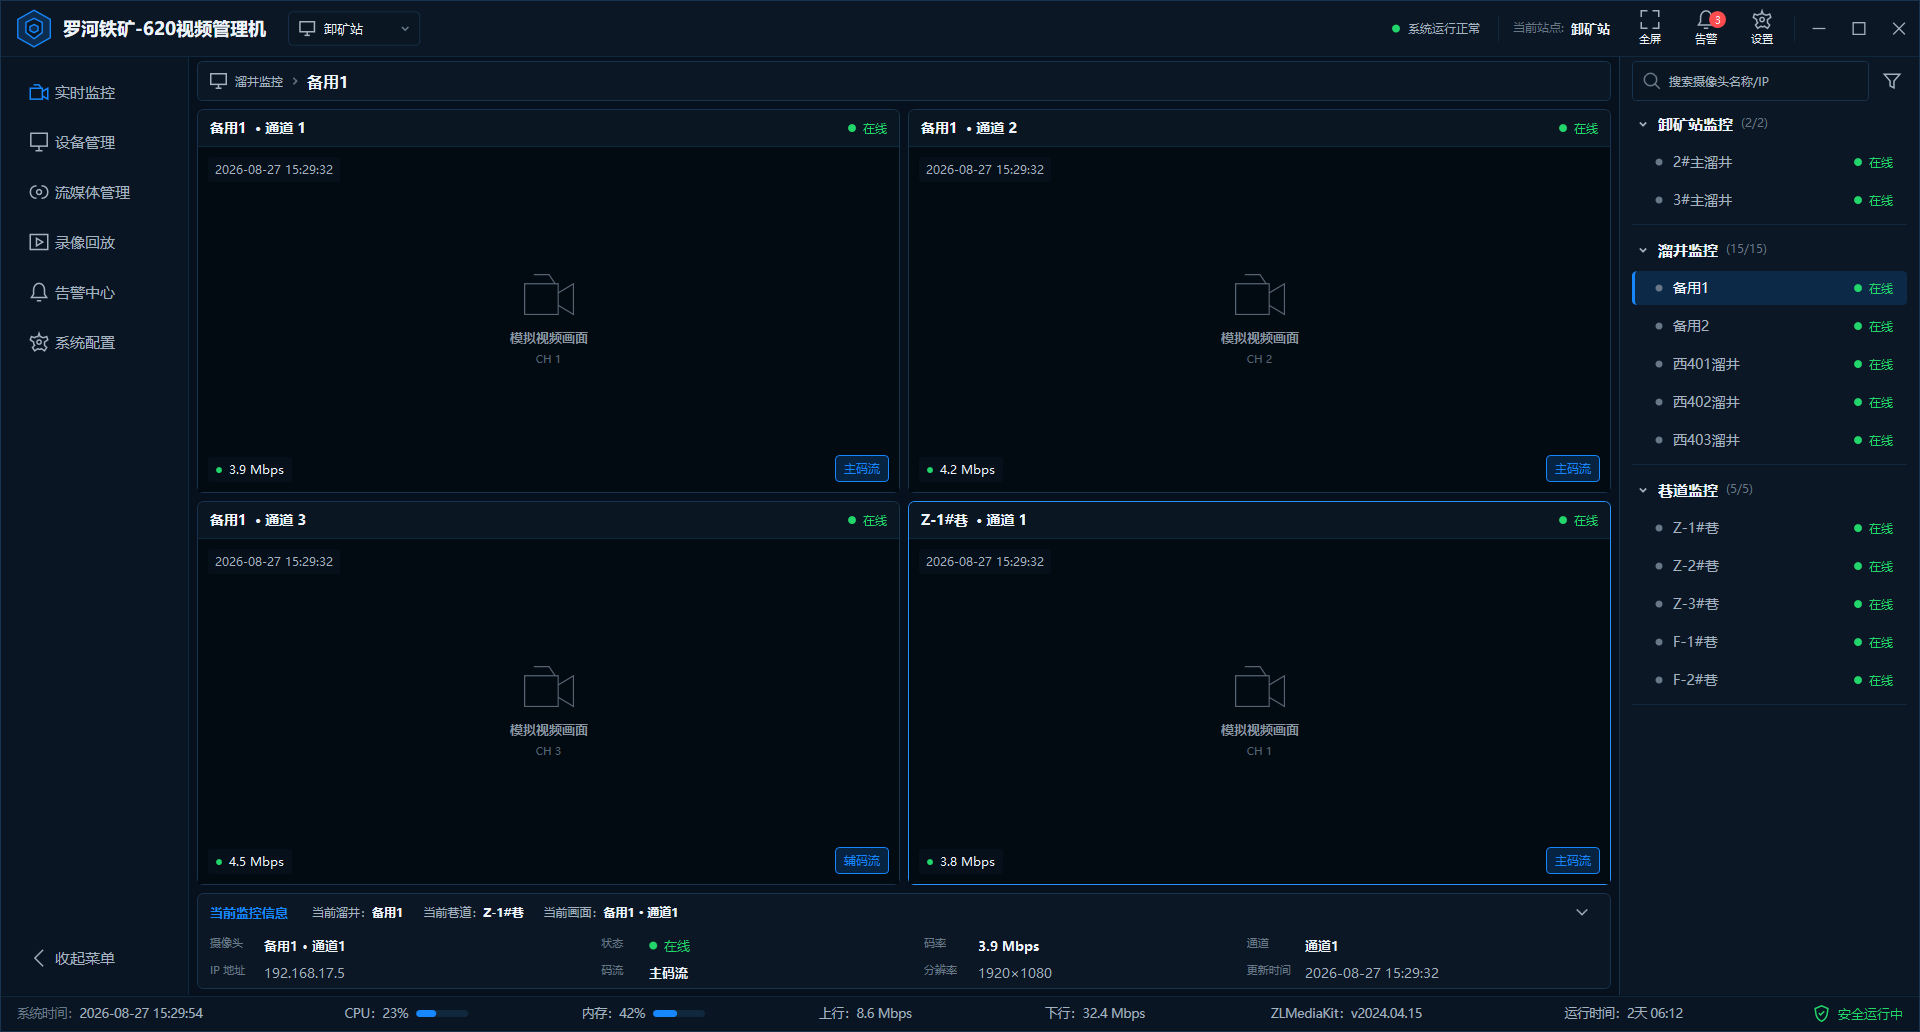
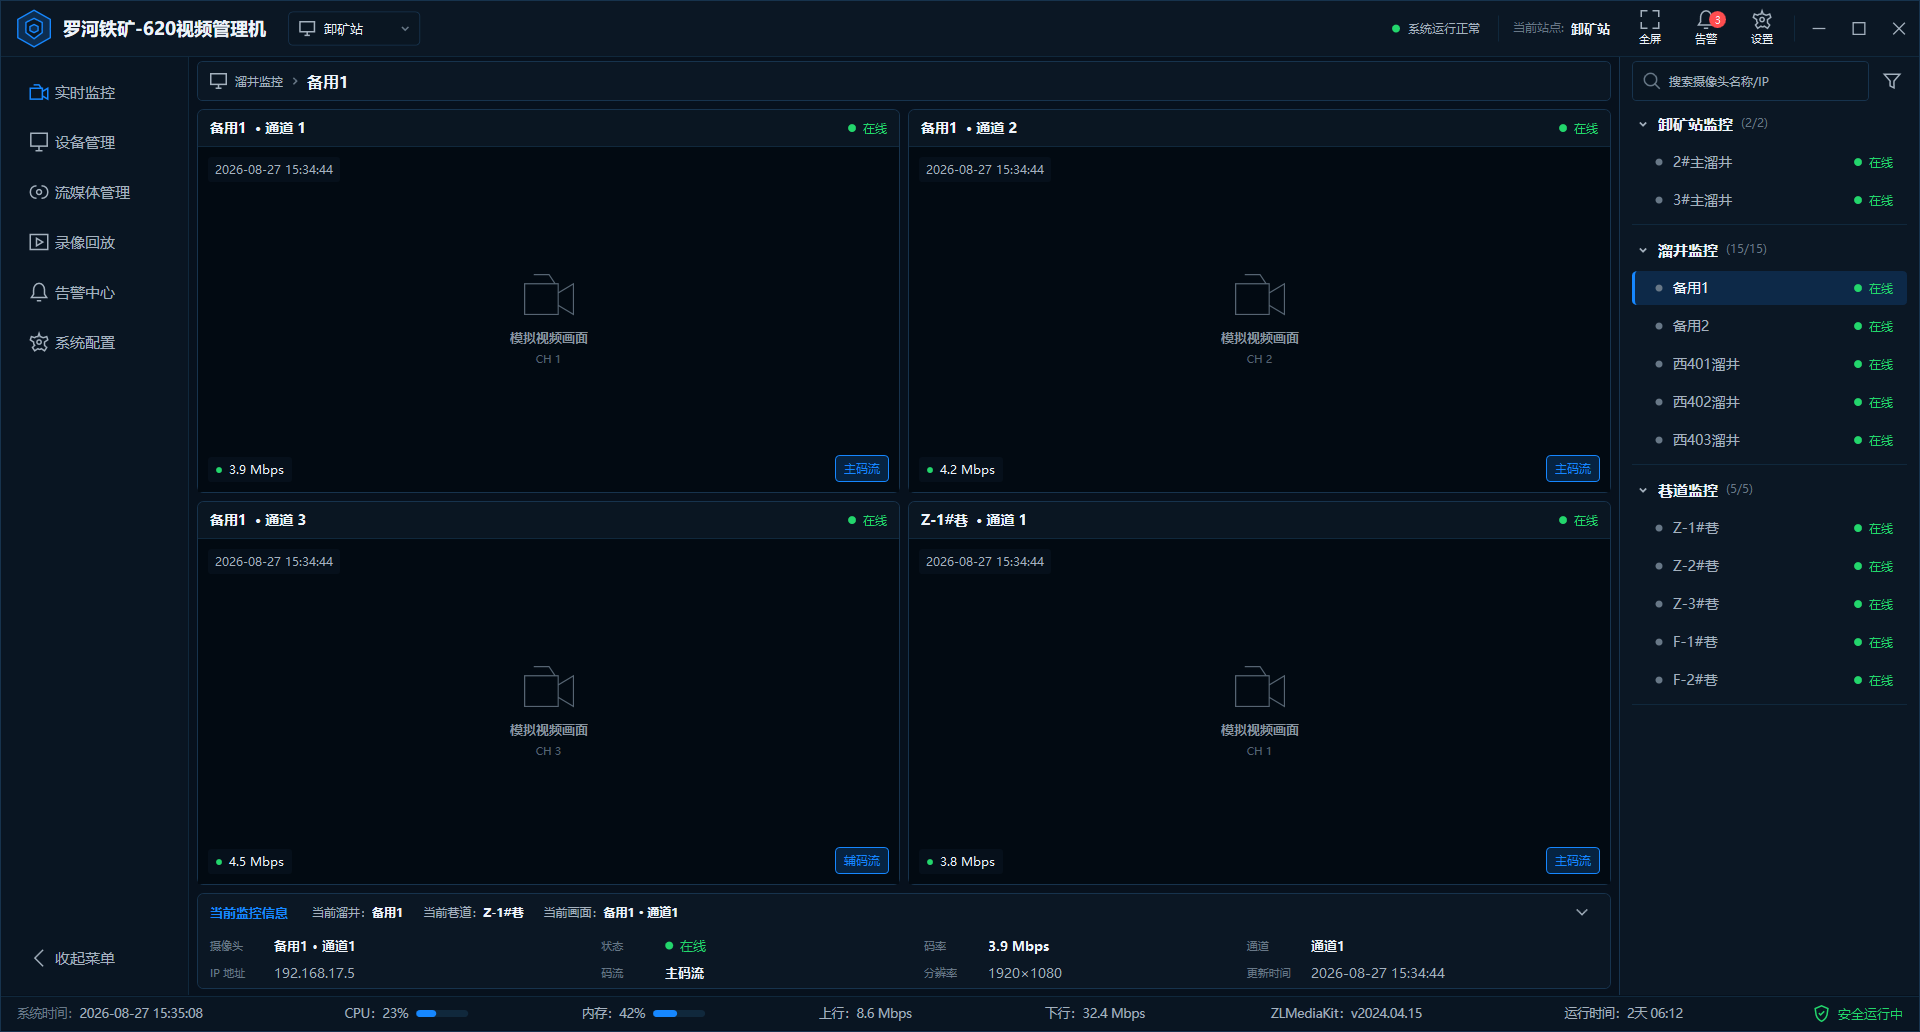
fix: align monitor detail fields

diff --git a/src/VideoMonitor.Wpf/Views/Pages/MonitorView.xaml b/src/VideoMonitor.Wpf/Views/Pages/MonitorView.xaml
@@ -95,20 +95,20 @@
                         <ColumnDefinition Width="1.15*" /><ColumnDefinition Width="*" /><ColumnDefinition Width="*" /><ColumnDefinition Width="1.15*" />
                     </Grid.ColumnDefinitions>
                     <StackPanel VerticalAlignment="Center">
-                        <StackPanel Orientation="Horizontal"><TextBlock Width="54" Style="{StaticResource MutedTextStyle}" Text="摄像头"/><TextBlock FontWeight="SemiBold"><Run Text="{Binding SelectedVideoSlot.GroupName, Mode=OneWay}"/><Run Text=" · 通道"/><Run Text="{Binding SelectedVideoSlot.ChannelNumber, Mode=OneWay}"/></TextBlock></StackPanel>
-                        <StackPanel Margin="0,8,0,0" Orientation="Horizontal"><TextBlock Width="54" Style="{StaticResource MutedTextStyle}" Text="IP 地址"/><TextBlock Foreground="{StaticResource SecondaryTextBrush}" Text="{Binding SelectedVideoSlot.IpAddress}"/></StackPanel>
+                        <Grid><Grid.ColumnDefinitions><ColumnDefinition Width="64"/><ColumnDefinition Width="*"/></Grid.ColumnDefinitions><TextBlock VerticalAlignment="Center" Style="{StaticResource MutedTextStyle}" Text="摄像头"/><TextBlock Grid.Column="1" VerticalAlignment="Center" FontWeight="SemiBold"><Run Text="{Binding SelectedVideoSlot.GroupName, Mode=OneWay}"/><Run Text=" · 通道"/><Run Text="{Binding SelectedVideoSlot.ChannelNumber, Mode=OneWay}"/></TextBlock></Grid>
+                        <Grid Margin="0,8,0,0"><Grid.ColumnDefinitions><ColumnDefinition Width="64"/><ColumnDefinition Width="*"/></Grid.ColumnDefinitions><TextBlock VerticalAlignment="Center" Style="{StaticResource MutedTextStyle}" Text="IP 地址"/><TextBlock Grid.Column="1" VerticalAlignment="Center" Foreground="{StaticResource SecondaryTextBrush}" Text="{Binding SelectedVideoSlot.IpAddress}"/></Grid>
                     </StackPanel>
                     <StackPanel Grid.Column="1" Margin="20,0,0,0" VerticalAlignment="Center">
-                        <StackPanel Orientation="Horizontal"><TextBlock Width="48" Style="{StaticResource MutedTextStyle}" Text="状态"/><Ellipse Width="8" Height="8" Margin="0,0,7,0" Fill="{Binding SelectedVideoSlot.Status, Converter={StaticResource StatusBrushConverter}}"/><TextBlock Foreground="{Binding SelectedVideoSlot.Status, Converter={StaticResource StatusBrushConverter}}" Text="{Binding SelectedVideoSlot.Status, Converter={StaticResource StatusTextConverter}}"/></StackPanel>
-                        <StackPanel Margin="0,8,0,0" Orientation="Horizontal"><TextBlock Width="48" Style="{StaticResource MutedTextStyle}" Text="码流"/><TextBlock FontWeight="SemiBold" Text="{Binding SelectedVideoSlot.StreamType}"/></StackPanel>
+                        <Grid><Grid.ColumnDefinitions><ColumnDefinition Width="64"/><ColumnDefinition Width="*"/></Grid.ColumnDefinitions><TextBlock VerticalAlignment="Center" Style="{StaticResource MutedTextStyle}" Text="状态"/><StackPanel Grid.Column="1" Orientation="Horizontal" VerticalAlignment="Center"><Ellipse Width="8" Height="8" Margin="0,0,7,0" Fill="{Binding SelectedVideoSlot.Status, Converter={StaticResource StatusBrushConverter}}"/><TextBlock VerticalAlignment="Center" Foreground="{Binding SelectedVideoSlot.Status, Converter={StaticResource StatusBrushConverter}}" Text="{Binding SelectedVideoSlot.Status, Converter={StaticResource StatusTextConverter}}"/></StackPanel></Grid>
+                        <Grid Margin="0,8,0,0"><Grid.ColumnDefinitions><ColumnDefinition Width="64"/><ColumnDefinition Width="*"/></Grid.ColumnDefinitions><TextBlock VerticalAlignment="Center" Style="{StaticResource MutedTextStyle}" Text="码流"/><TextBlock Grid.Column="1" VerticalAlignment="Center" FontWeight="SemiBold" Text="{Binding SelectedVideoSlot.StreamType}"/></Grid>
                     </StackPanel>
                     <StackPanel Grid.Column="2" Margin="20,0,0,0" VerticalAlignment="Center">
-                        <StackPanel Orientation="Horizontal"><TextBlock Width="54" Style="{StaticResource MutedTextStyle}" Text="码率"/><TextBlock FontWeight="SemiBold" Text="{Binding SelectedVideoSlot.Bitrate}"/></StackPanel>
-                        <StackPanel Margin="0,8,0,0" Orientation="Horizontal"><TextBlock Width="54" Style="{StaticResource MutedTextStyle}" Text="分辨率"/><TextBlock Foreground="{StaticResource SecondaryTextBrush}" Text="{Binding SelectedVideoSlot.Resolution}"/></StackPanel>
+                        <Grid><Grid.ColumnDefinitions><ColumnDefinition Width="64"/><ColumnDefinition Width="*"/></Grid.ColumnDefinitions><TextBlock VerticalAlignment="Center" Style="{StaticResource MutedTextStyle}" Text="码率"/><TextBlock Grid.Column="1" VerticalAlignment="Center" FontWeight="SemiBold" Text="{Binding SelectedVideoSlot.Bitrate}"/></Grid>
+                        <Grid Margin="0,8,0,0"><Grid.ColumnDefinitions><ColumnDefinition Width="64"/><ColumnDefinition Width="*"/></Grid.ColumnDefinitions><TextBlock VerticalAlignment="Center" Style="{StaticResource MutedTextStyle}" Text="分辨率"/><TextBlock Grid.Column="1" VerticalAlignment="Center" Foreground="{StaticResource SecondaryTextBrush}" Text="{Binding SelectedVideoSlot.Resolution}"/></Grid>
                     </StackPanel>
                     <StackPanel Grid.Column="3" Margin="20,0,0,0" VerticalAlignment="Center">
-                        <StackPanel Orientation="Horizontal"><TextBlock Width="58" Style="{StaticResource MutedTextStyle}" Text="通道"/><TextBlock FontWeight="SemiBold" Text="{Binding SelectedVideoSlot.ChannelNumber, StringFormat=通道{0}}"/></StackPanel>
-                        <StackPanel Margin="0,8,0,0" Orientation="Horizontal"><TextBlock Width="58" Style="{StaticResource MutedTextStyle}" Text="更新时间"/><TextBlock Foreground="{StaticResource SecondaryTextBrush}" Text="{Binding SelectedVideoSlot.Timestamp}"/></StackPanel>
+                        <Grid><Grid.ColumnDefinitions><ColumnDefinition Width="64"/><ColumnDefinition Width="*"/></Grid.ColumnDefinitions><TextBlock VerticalAlignment="Center" Style="{StaticResource MutedTextStyle}" Text="通道"/><TextBlock Grid.Column="1" VerticalAlignment="Center" FontWeight="SemiBold" Text="{Binding SelectedVideoSlot.ChannelNumber, StringFormat=通道{0}}"/></Grid>
+                        <Grid Margin="0,8,0,0"><Grid.ColumnDefinitions><ColumnDefinition Width="64"/><ColumnDefinition Width="*"/></Grid.ColumnDefinitions><TextBlock VerticalAlignment="Center" Style="{StaticResource MutedTextStyle}" Text="更新时间"/><TextBlock Grid.Column="1" VerticalAlignment="Center" Foreground="{StaticResource SecondaryTextBrush}" Text="{Binding SelectedVideoSlot.Timestamp}"/></Grid>
                     </StackPanel>
                 </Grid>
             </Grid>
